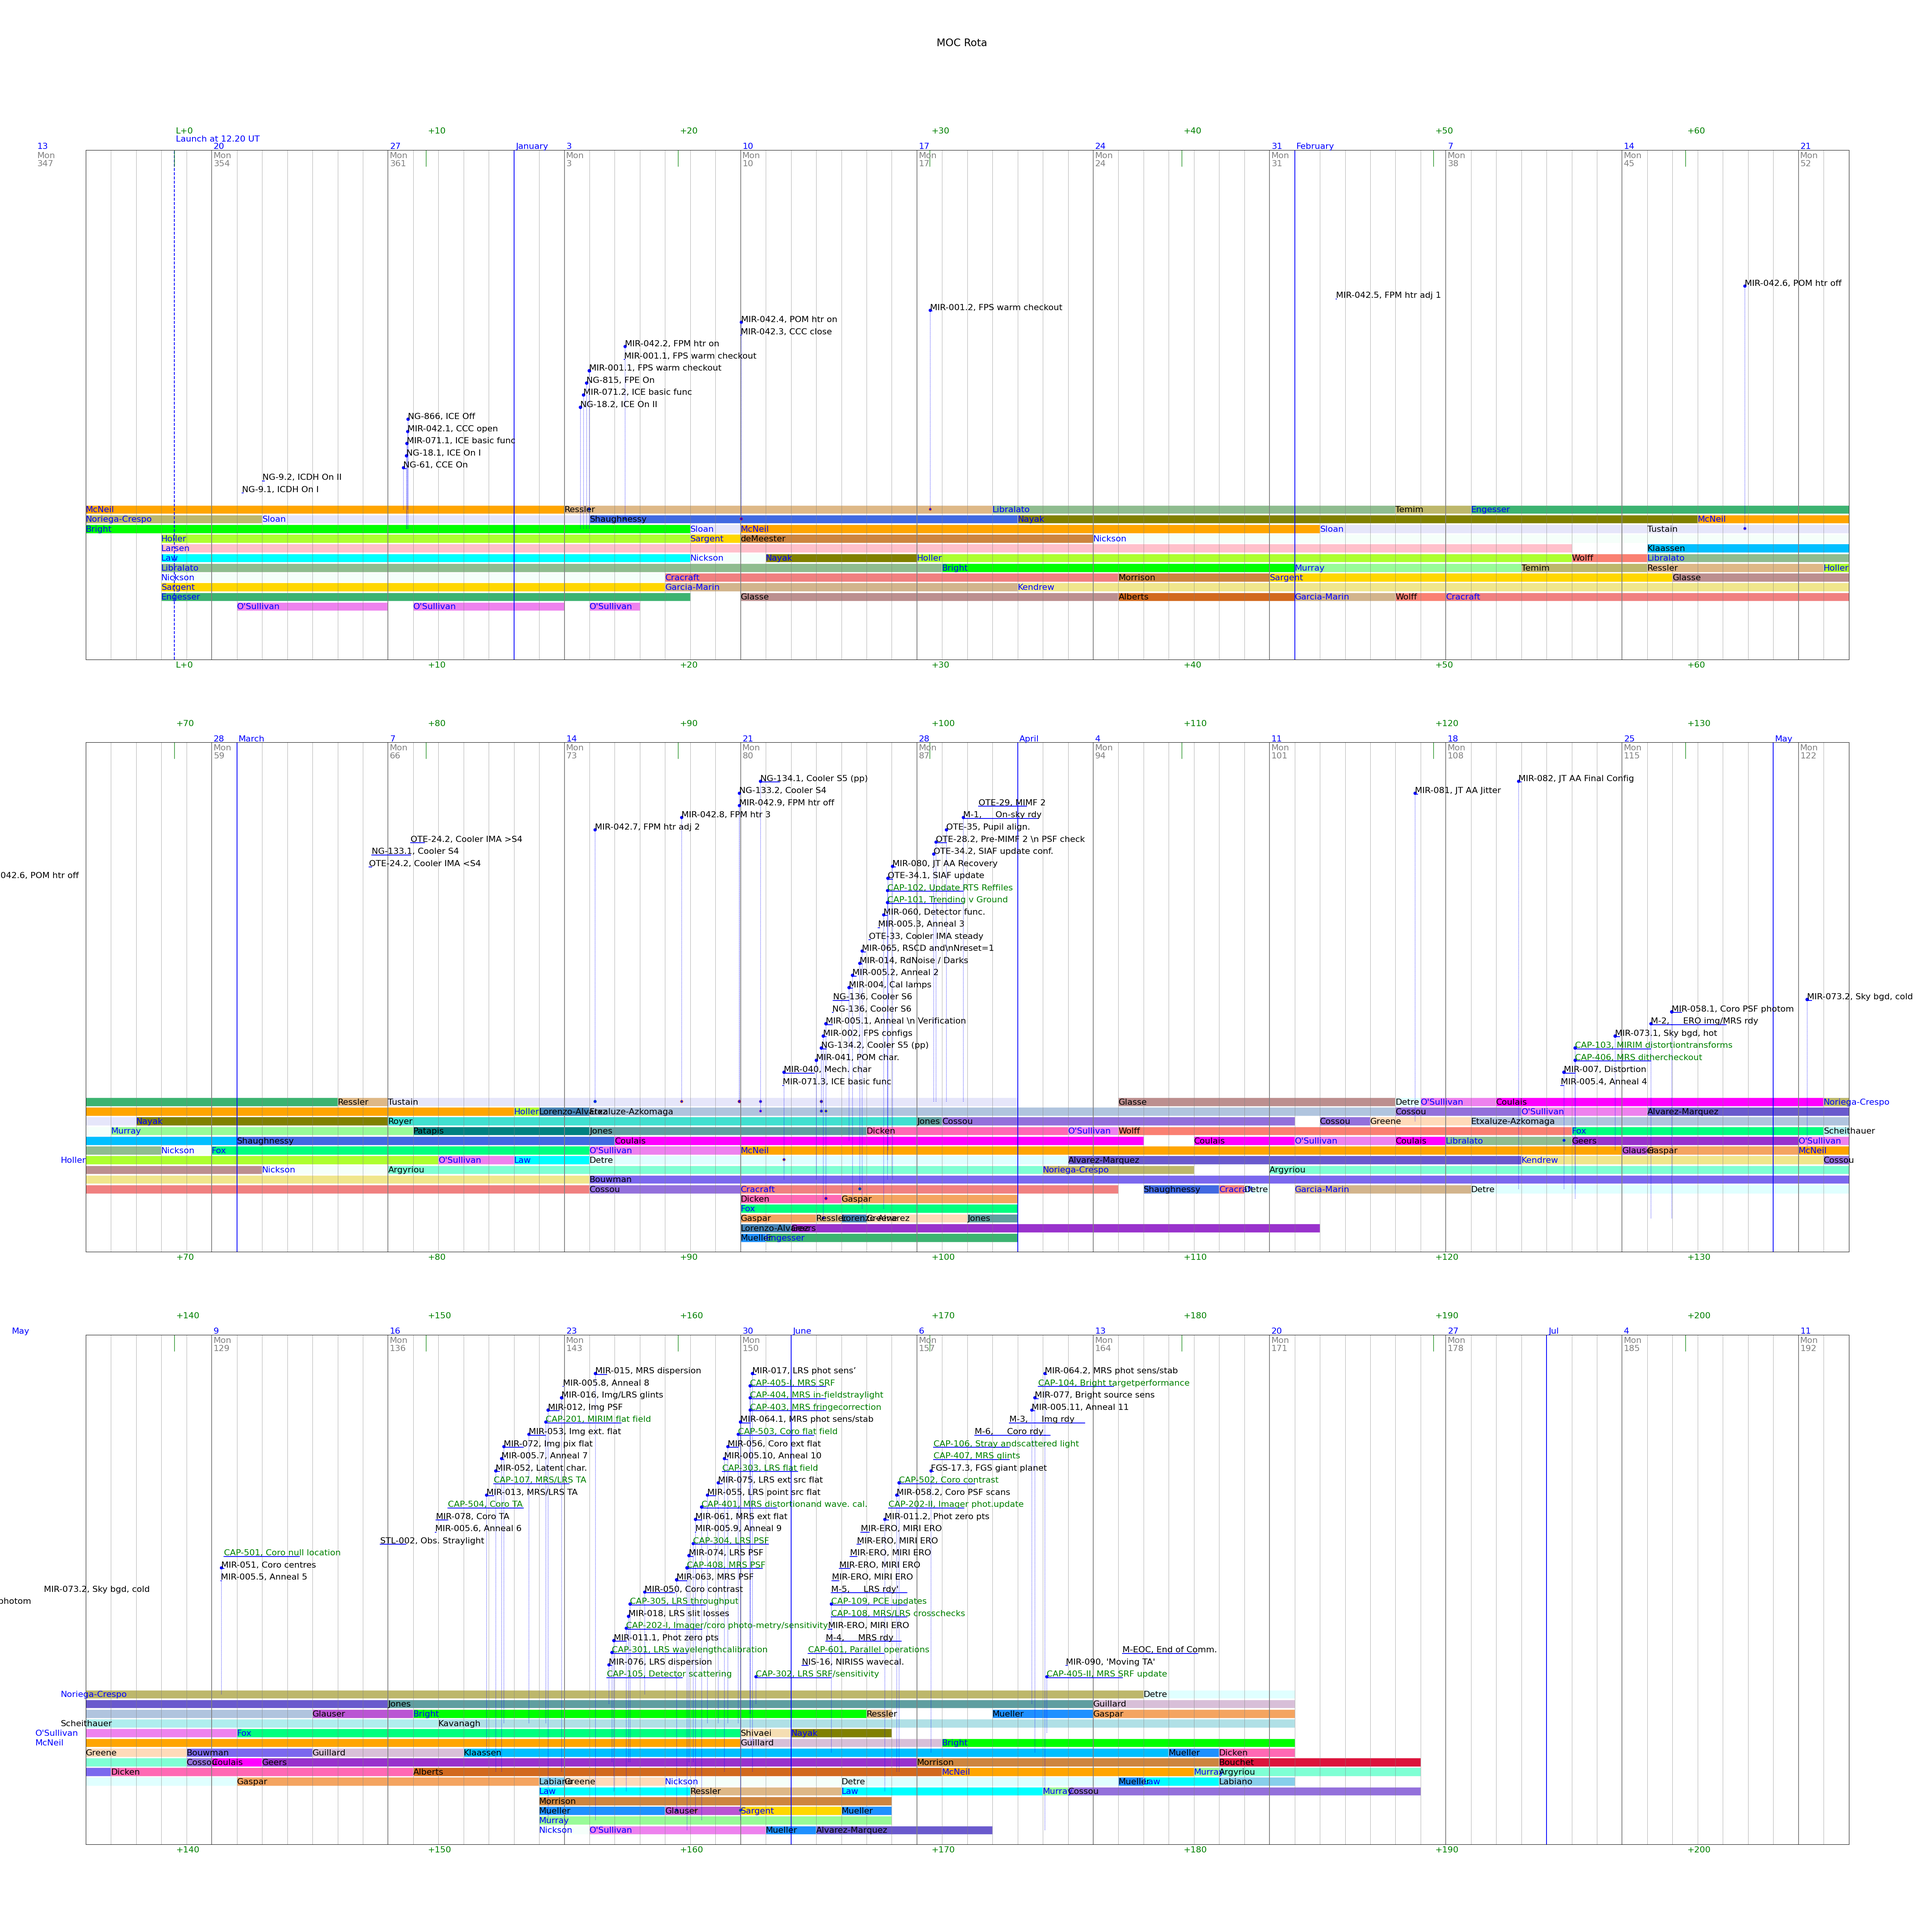
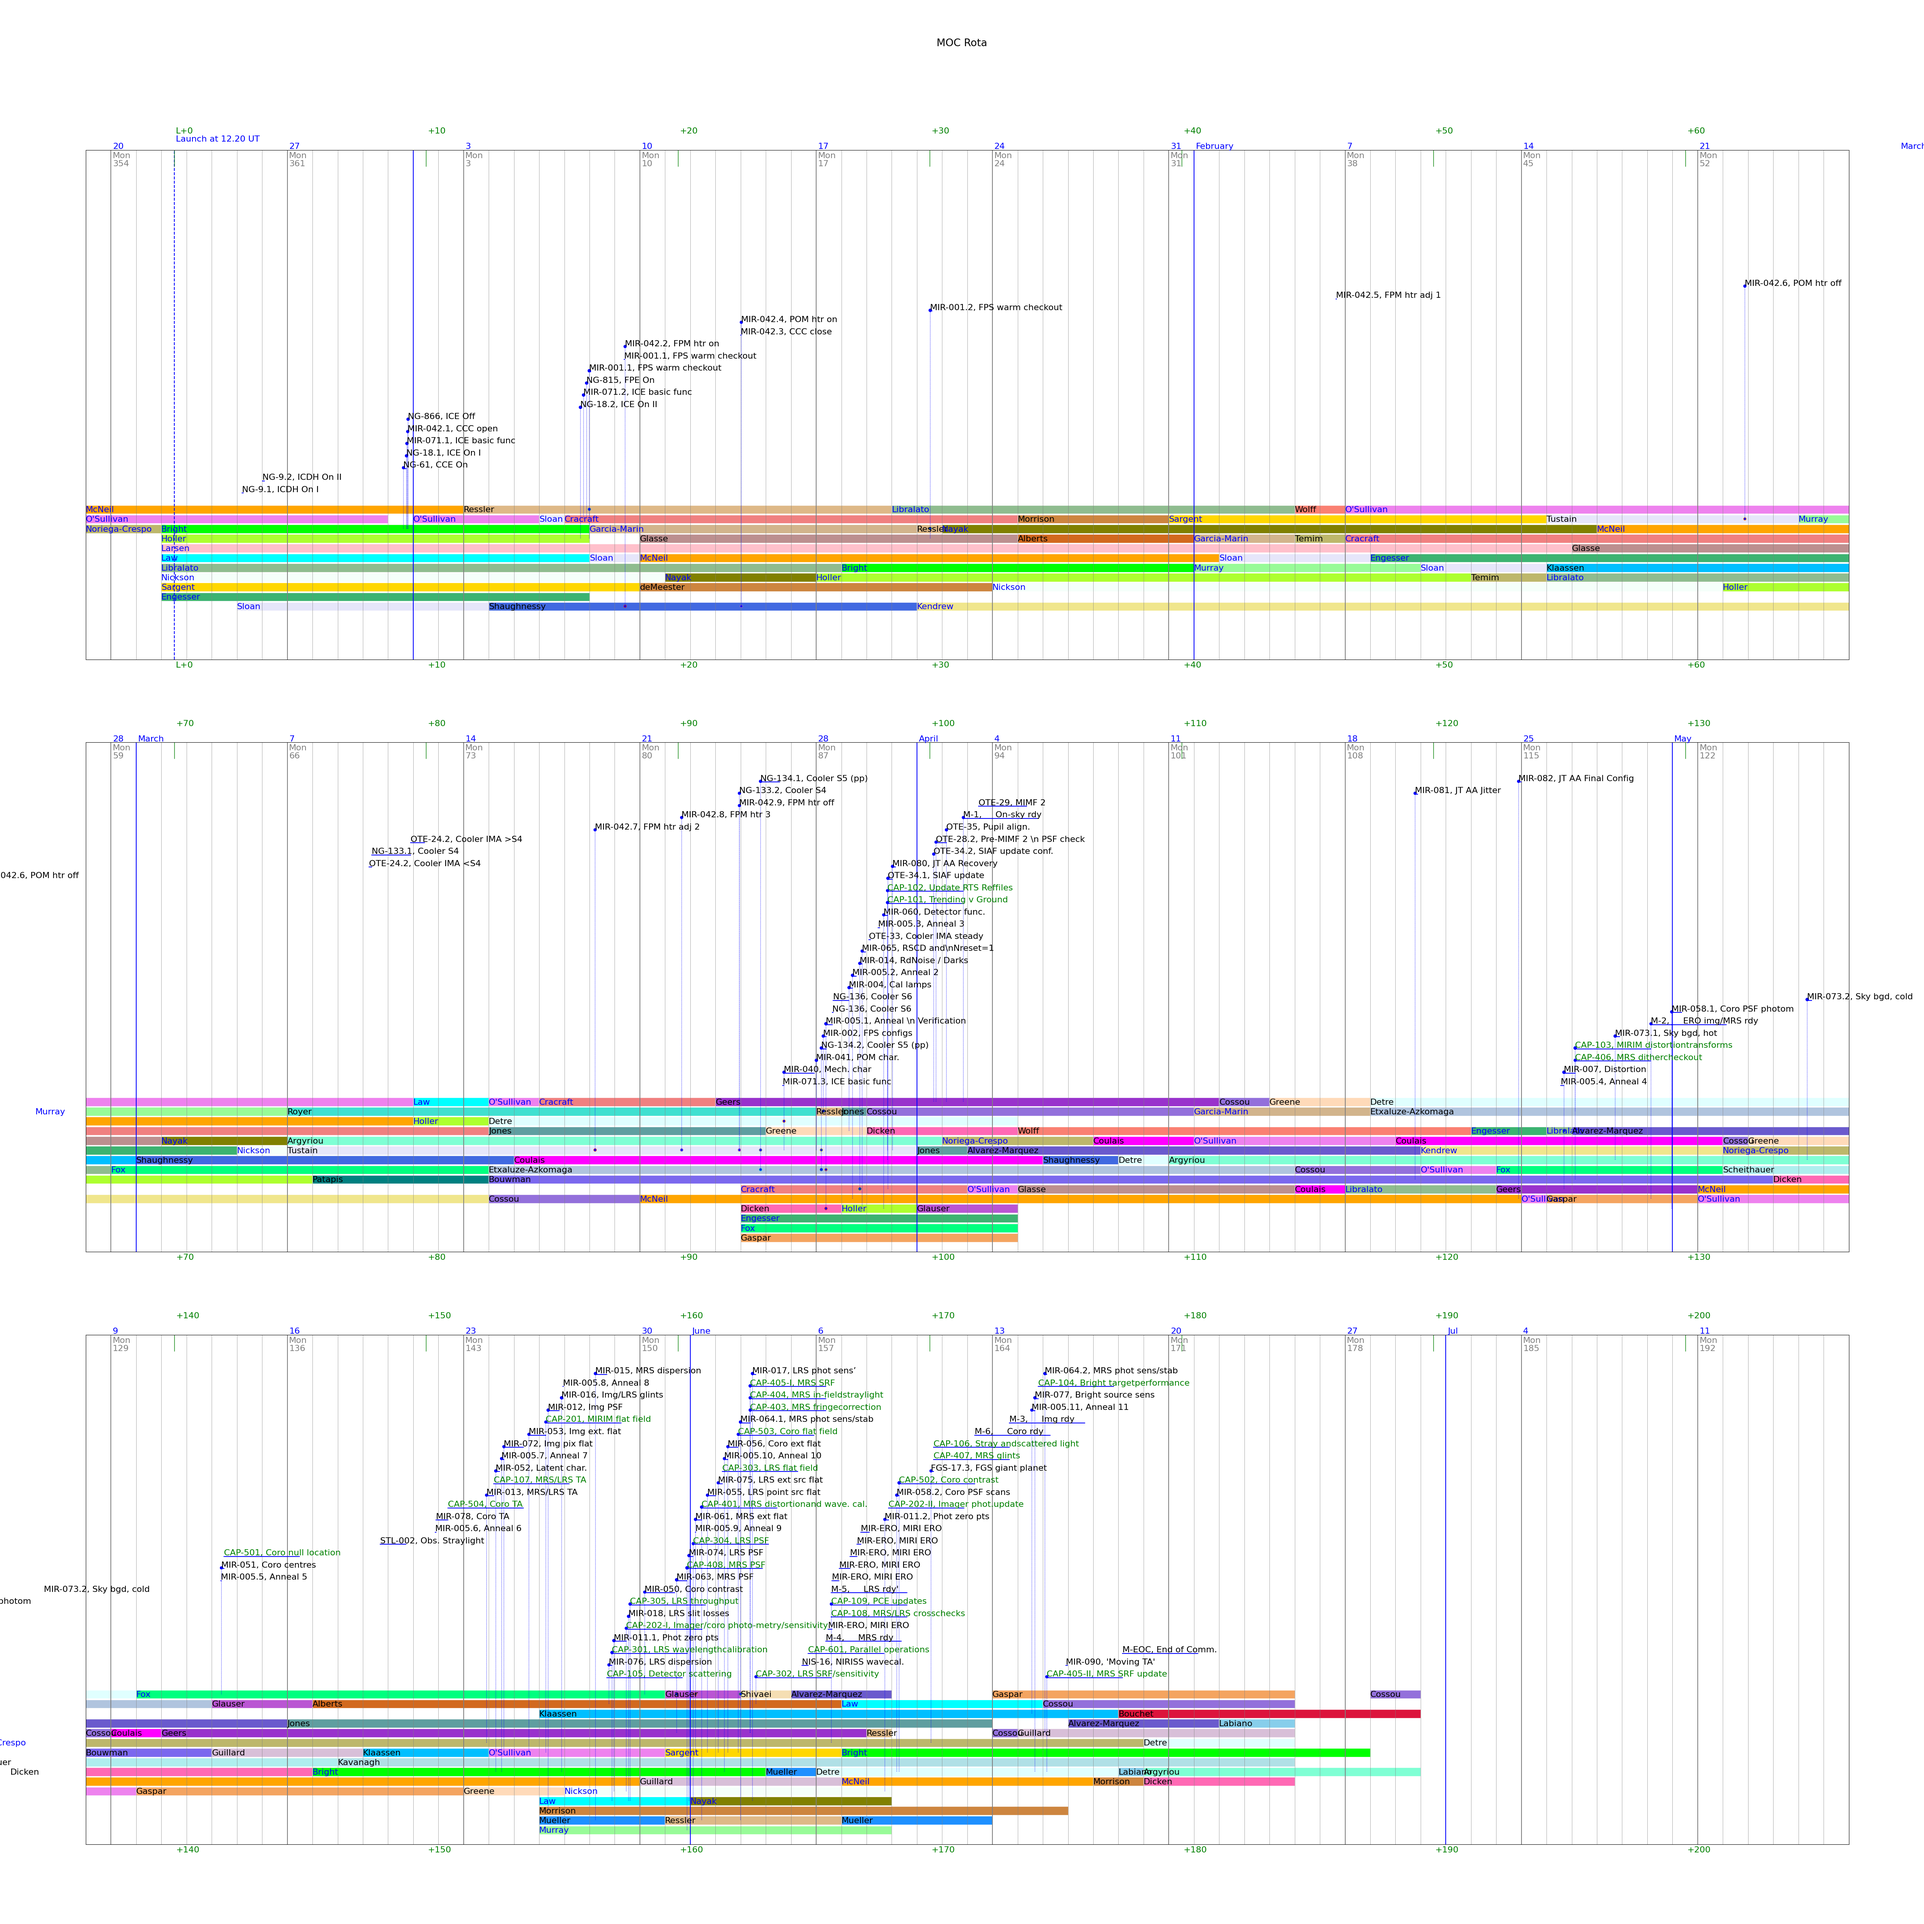
Ori Fox - 22/11/21 Updated for launch on 22nd December (note Gaspar now has a blackout clash for MIR-012)

Changed region(s): [[0.0312, 0.2496, 0.9672, 0.3432], [0.0312, 0.5616, 0.9672, 0.6552], [0.0312, 0.8736, 0.7488, 0.9672]]

diff --git a/source/shift_plan.py b/source/shift_plan.py
@@ -17,7 +17,7 @@ class ShiftPlan:
     """
     month_names = ['January', 'February', 'March', 'April', 'May', 'June',
                    'Jul', 'Aug', 'Sep', 'Oct', 'November', 'December']
-    launchyear, launchmonth, launchdate, launchhour = 2021, 12, 18, 12.20
+    launchyear, launchmonth, launchdate, launchhour = 2021, 12, 22, 12.20
     launchdate_last_monday = 13             # Date of month of the last Monday before launch
     start_md, end_md = -3, 190
     n_days = end_md - start_md + 1
